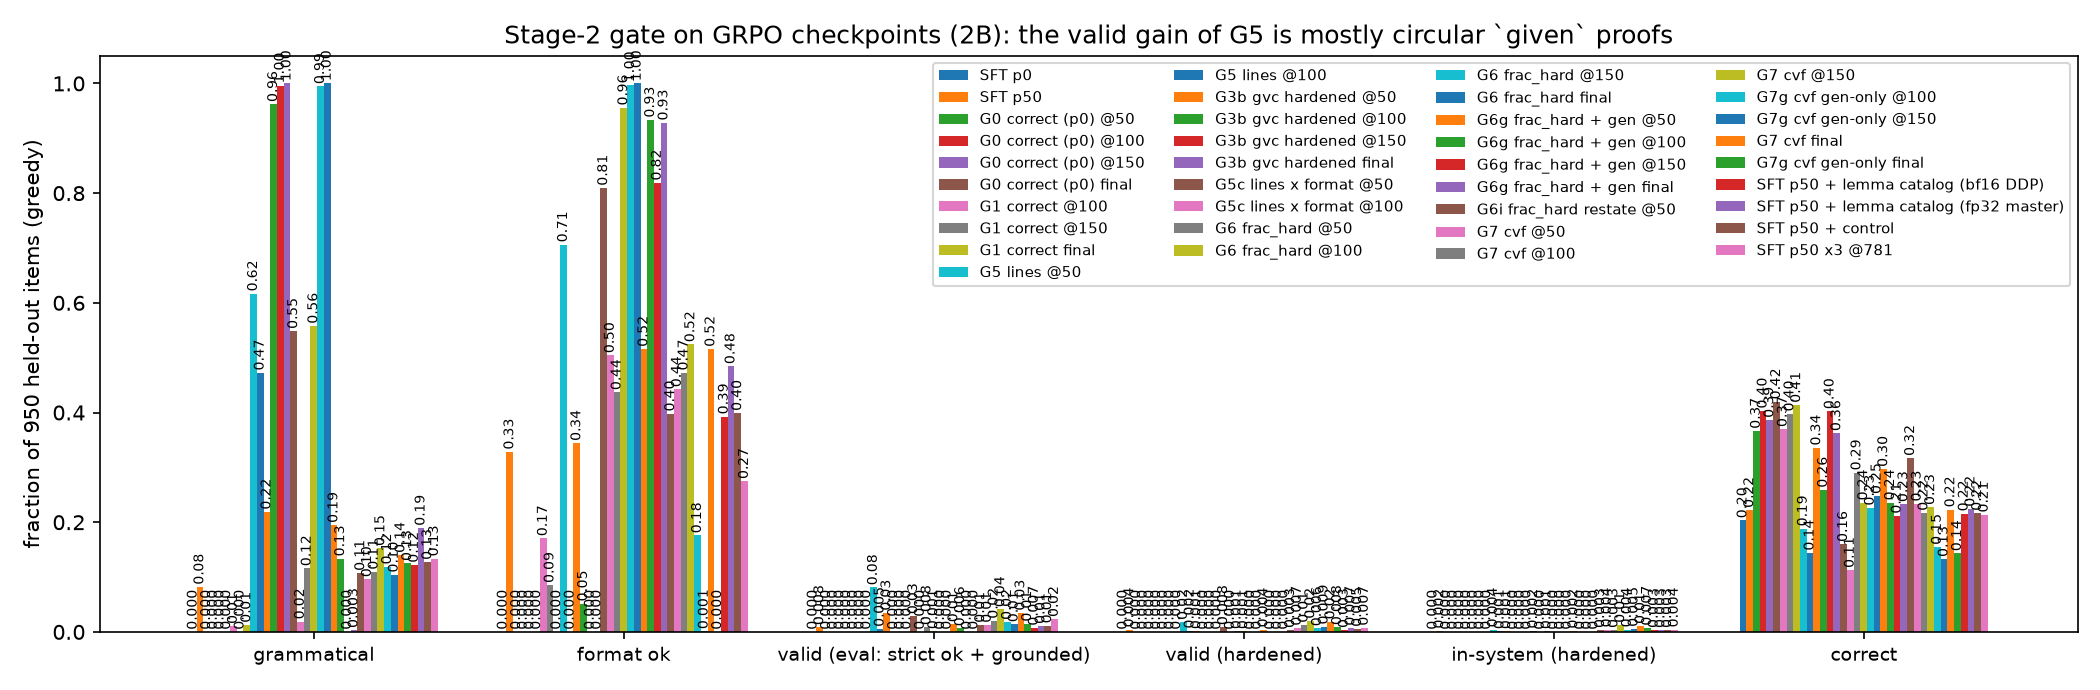
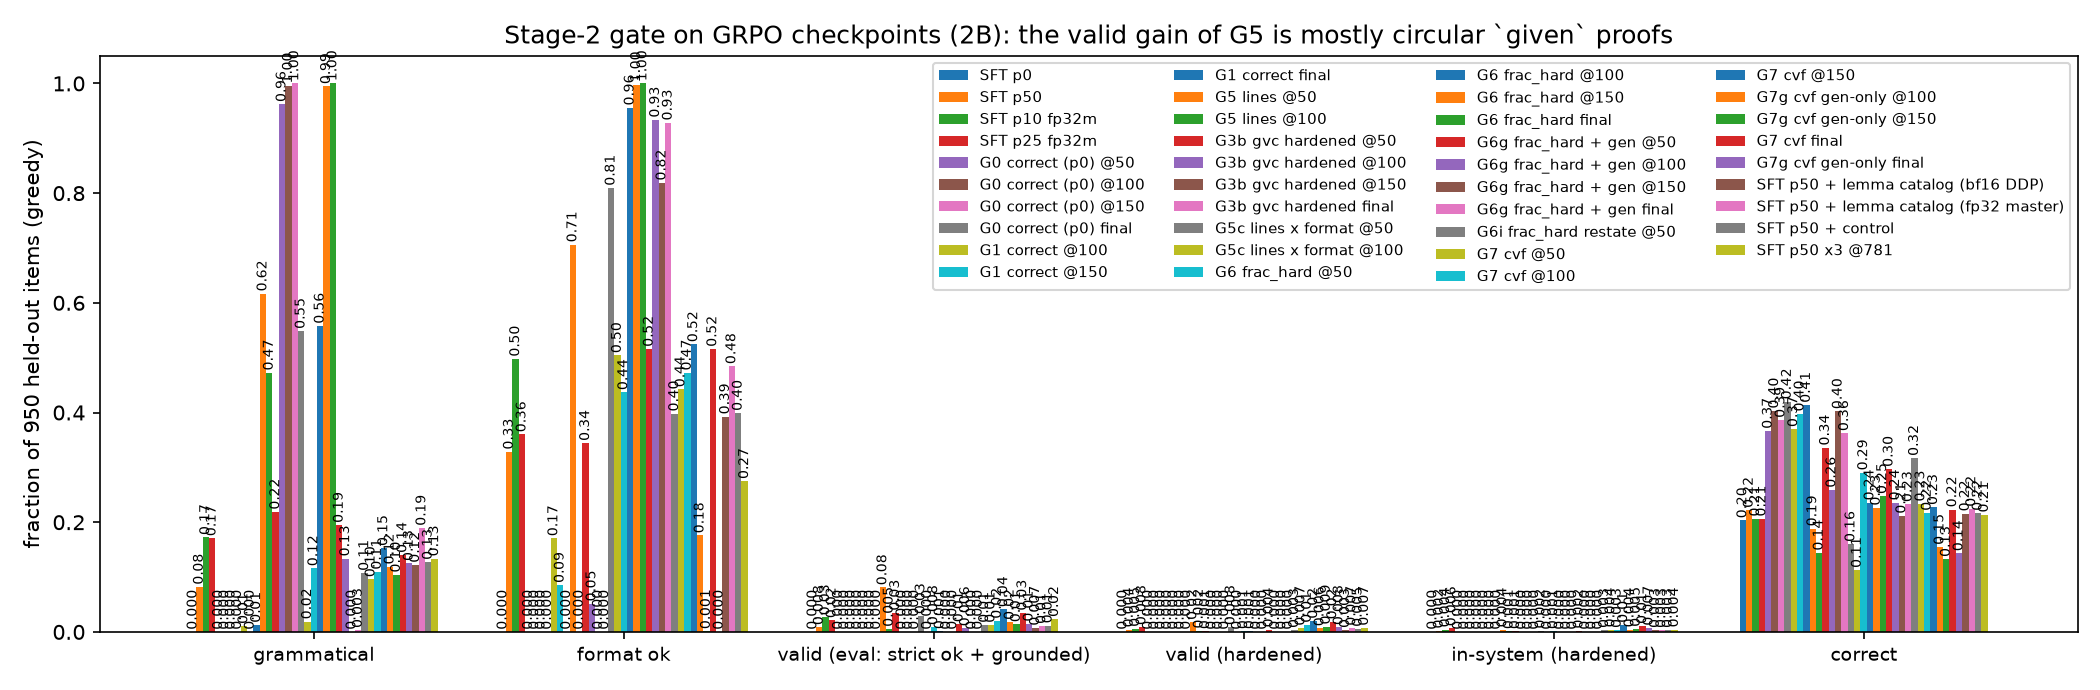
stage1: corrected 2B p10/p25 (fp32 master) in-domain + gate; fp32m series in scale curve
Claude-Session: https://claude.ai/code/session_01WnQYXLXLcnkw9LdZ4eJP3w

diff --git a/scripts/analysis/sft_scale_curve.py b/scripts/analysis/sft_scale_curve.py
@@ -7,6 +7,8 @@ Question (user, 2026-09-29): would a longer SFT (e.g. 10x) give a better base? T
   scaled p50      qwen35_2b_dolci_rlvlgen_p50_x3: p50 at 3x the rows (300k, 2344 steps); its
                   checkpoints at steps 781 / 1562 / final have seen ~50k / 100k / 150k generator rows
                   (rows are shuffled), always at a 50% share
+  fp32m reruns    qwen35_2b_dolci_rlvlgen_p<X>_..._fp32m: the 2B sweep again with fp32 master weights
+                  (the original 2B / 0.8B runs lost most AdamW updates to bf16 rounding, 2dea2ee)
 Reads formal_eval/summary.json (2000 unseen generator problems) of every run / checkpoint present
 and writes reports/figures/sft_scale_curve.png.
 """
@@ -25,11 +27,11 @@ COL = {"0.8b": "#4C78A8", "2b": "#F58518", "9b": "#54A24B"}
 SCALED = {"2b": ROOT / "qwen35_2b_dolci_rlvlgen_p50_x3_lr5em6_seed3407"}
 STEPS_PER_50K = 781
 
-sweep, scaled = {}, {}
-for f in ROOT.glob("qwen35_*_dolci_rlvlgen_p*_lr5em6_seed3407/formal_eval/summary.json"):
-    m = re.search(r"qwen35_([\d.]+b)_dolci_rlvlgen_p(\d+)_lr", str(f))
+sweep, scaled, fp32m = {}, {}, {}
+for f in ROOT.glob("qwen35_*_dolci_rlvlgen_p*_lr5em6_seed3407*/formal_eval/summary.json"):
+    m = re.search(r"qwen35_([\d.]+b)_dolci_rlvlgen_p(\d+)_lr5em6_seed3407(_fp32m)?/", str(f))
     if m and int(m[2]) > 0:
-        sweep.setdefault(m[1], {})[int(m[2]) * 1000] = json.load(open(f))["overall"]
+        (fp32m if m[3] else sweep).setdefault(m[1], {})[int(m[2]) * 1000] = json.load(open(f))["overall"]
 for size, run in SCALED.items():
     for f in run.glob("*/formal_eval/summary.json"):
         ck = f.parts[-3]
@@ -40,8 +42,13 @@ fig, axes = plt.subplots(1, len(MET), figsize=(4.2 * len(MET), 3.7), sharey=True
 for ax, (k, lbl) in zip(axes, MET):
     for size in sorted(sweep, key=lambda s: float(s[:-1])):
         xs = sorted(sweep[size])
-        ax.plot(xs, [sweep[size][x][k] for x in xs], "-o", ms=4, color=COL.get(size),
-                label=f"{size.upper()} sweep (100k rows, X% formal)")
+        crippled = " bf16-rounded" if size in ("0.8b", "2b") else ""
+        ax.plot(xs, [sweep[size][x][k] for x in xs], ":o" if crippled else "-o", ms=4, color=COL.get(size),
+                alpha=.5 if crippled else 1, label=f"{size.upper()} sweep (100k rows, X% formal){crippled}")
+    for size, pts in fp32m.items():
+        xs = sorted(pts)
+        ax.plot(xs, [pts[x][k] for x in xs], "-D", ms=5, color=COL.get(size),
+                label=f"{size.upper()} sweep, fp32 master (fixed)")
     for size, pts in scaled.items():
         xs = sorted(pts)
         ax.plot(xs, [pts[x][k] for x in xs], "--s", ms=6, color=COL.get(size), mfc="white",
@@ -52,11 +59,13 @@ for ax, (k, lbl) in zip(axes, MET):
     ax.set_xlabel("generator rows seen in SFT")
     ax.grid(alpha=.3)
 axes[0].set_ylabel("rate on 2000 unseen generator problems")
-axes[0].legend(fontsize=7)
+axes[2].legend(fontsize=7, loc="lower right")
 fig.suptitle("Does more SFT help? In-domain rates vs generator rows seen")
 fig.tight_layout()
 fig.savefig(FIG / "sft_scale_curve.png", dpi=140)
 for size in sweep:
     print(size, {x: round(v["valid"], 3) for x, v in sorted(sweep[size].items())})
+for size in fp32m:
+    print(size, "fp32m", {x: round(v["valid"], 3) for x, v in sorted(fp32m[size].items())})
 for size in scaled:
     print(size, "x3", {x: round(v["valid"], 3) for x, v in sorted(scaled[size].items())})

diff --git a/scripts/analysis/grpo_gate_ckpts.py b/scripts/analysis/grpo_gate_ckpts.py
@@ -25,6 +25,10 @@ TEST = DATA / "datasets/rl_gate_dolci_instruct_20260928/test.jsonl"
 MODELS = [
     ("SFT p0", SFT / "qwen35_2b_dolci_rlvlgen_p00_lr5em6_seed3407"),
     ("SFT p50", SFT / "qwen35_2b_dolci_rlvlgen_p50_lr5em6_seed3407"),
+    ("SFT p00 fp32m", SFT / "qwen35_2b_dolci_rlvlgen_p00_lr5em6_seed3407_fp32m/final"),
+    ("SFT p10 fp32m", SFT / "qwen35_2b_dolci_rlvlgen_p10_lr5em6_seed3407_fp32m/final"),
+    ("SFT p25 fp32m", SFT / "qwen35_2b_dolci_rlvlgen_p25_lr5em6_seed3407_fp32m/final"),
+    ("SFT p50 fp32m", SFT / "qwen35_2b_dolci_rlvlgen_p50_lr5em6_seed3407_fp32m/final"),
     ("G0 correct (p0) @50", GRPO / "2b_p0_G0_correct_bal/checkpoint-50"),
     ("G0 correct (p0) @100", GRPO / "2b_p0_G0_correct_bal/checkpoint-100"),
     ("G0 correct (p0) @150", GRPO / "2b_p0_G0_correct_bal/checkpoint-150"),

diff --git a/reports/2026-09-28_stage1_interim.md b/reports/2026-09-28_stage1_interim.md
@@ -144,3 +144,36 @@ Dolci gate (`rl_gate_dolci`, answers must also be proven):
 | **SFT p50 x3 @781** | .299 | .134 | .275 | .023 | .007 | .004 | .214 |
 
 **Reading.** With correct precision, the 2B model reaches 9B-level in-domain validity after the same 50k generator rows: .942 vs .675. So most of the earlier 2B/9B gap was the precision bug, not model size. Transfer to Dolci does not follow. valid_eval doubles (.008 → .023, the best SFT so far), but end-to-end valid stays at .007 and the model writes fewer proofs (has_proof .30). In-domain competence is now saturated at 2B. The remaining bottleneck is transfer to natural prompts. That is the Stage-2 GRPO / EI question, not a question of longer SFT. Checkpoints 1562 and final follow (the watcher submits their eval and gate automatically), and the corrected 2B p00/p10/p25/p50 reruns (7146/7215/7217/7147) give the matched mixture curve.
+
+## 2026-09-30 03:45: corrected 2B sweep, first points (p10, p25 with fp32 master weights)
+
+These rerun the 2B mixture sweep without the bf16 rounding bug (2dea2ee). Same data, lr and steps. In-domain rates are on 2000 unseen generator problems:
+
+| run | faithful | grammatical | valid | answer acc |
+|---|---|---|---|---|
+| p10 bf16-rounded | .414 | .662 | .252 | .718 |
+| **p10 fp32m** | **.923** | **.980** | **.845** | **.934** |
+| p25 bf16-rounded | .666 | .845 | .470 | .808 |
+| **p25 fp32m** | **.970** | **.994** | **.913** | **.964** |
+| p50 x3 @781 (fp32, same 50k gen rows as p50) | .986 | .996 | .942 | .976 |
+| 9B p10 / p25 | .976 / .990 | .998 / .998 | .944 / .963 | .979 / .989 |
+
+- The steep 2B "more formal data helps" slope in the original sweep was mostly an optimizer artefact.
+- With correct precision, 10k generator rows already give valid .85, and 25k give .91. 2B now sits just below 9B.
+
+![scale curve](figures/sft_scale_curve.png)
+
+Dolci gate (950 natural prompts, greedy; `scripts/analysis/grpo_gate_ckpts.py`):
+
+| model | has_proof | grammatical | format_ok | valid_eval | valid | correct |
+|---|---|---|---|---|---|---|
+| SFT p0 | .000 | .000 | .000 | .000 | .000 | .203 |
+| SFT p50 bf16-rounded | .399 | .082 | .328 | .008 | .004 | .222 |
+| SFT p10 fp32m | .597 | .173 | .498 | .026 | .005 | .206 |
+| SFT p25 fp32m | .402 | .171 | .360 | .021 | .008 | .206 |
+| SFT p50 x3 @781 | .299 | .134 | .275 | .023 | .007 | .214 |
+
+- Correct precision roughly doubles grammatical proofs on natural prompts, from .08 to .17.
+- Strict validity on natural prompts stays below 1% at every mixture ratio.
+- Answer correctness is unchanged versus pure instruction tuning (p0 .203). The formal mix costs no accuracy on the gate.
+- Benchmark and tagged results follow once 7222/7225 and 7223/7226 finish.
